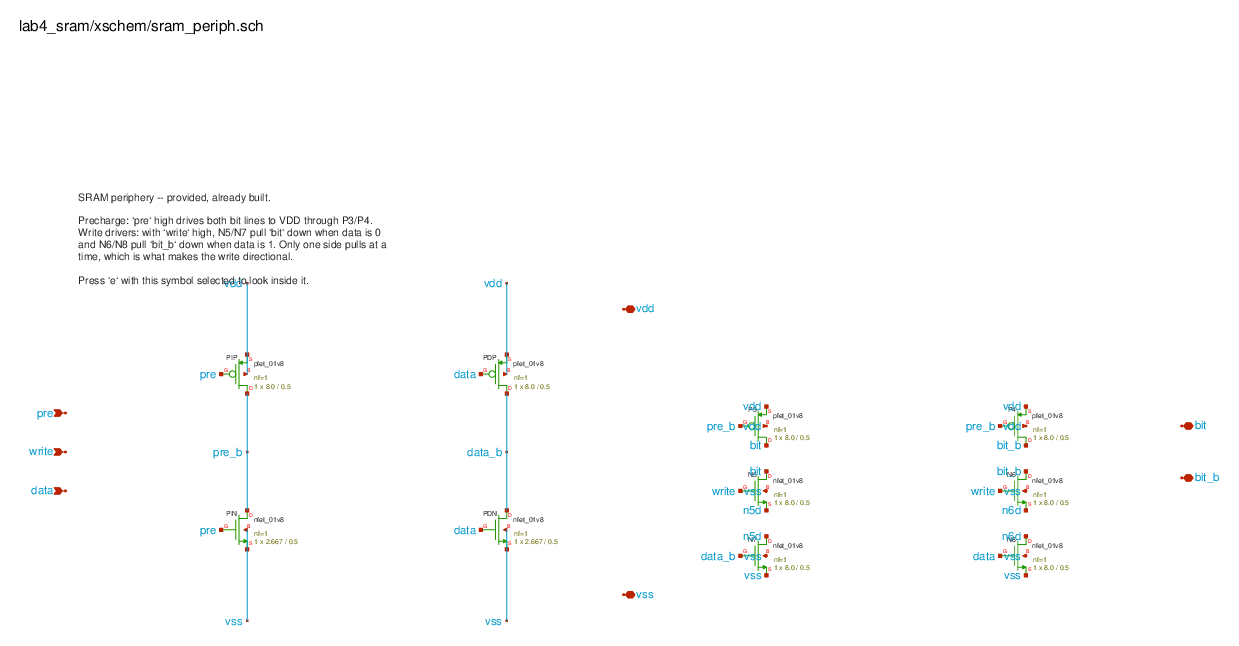
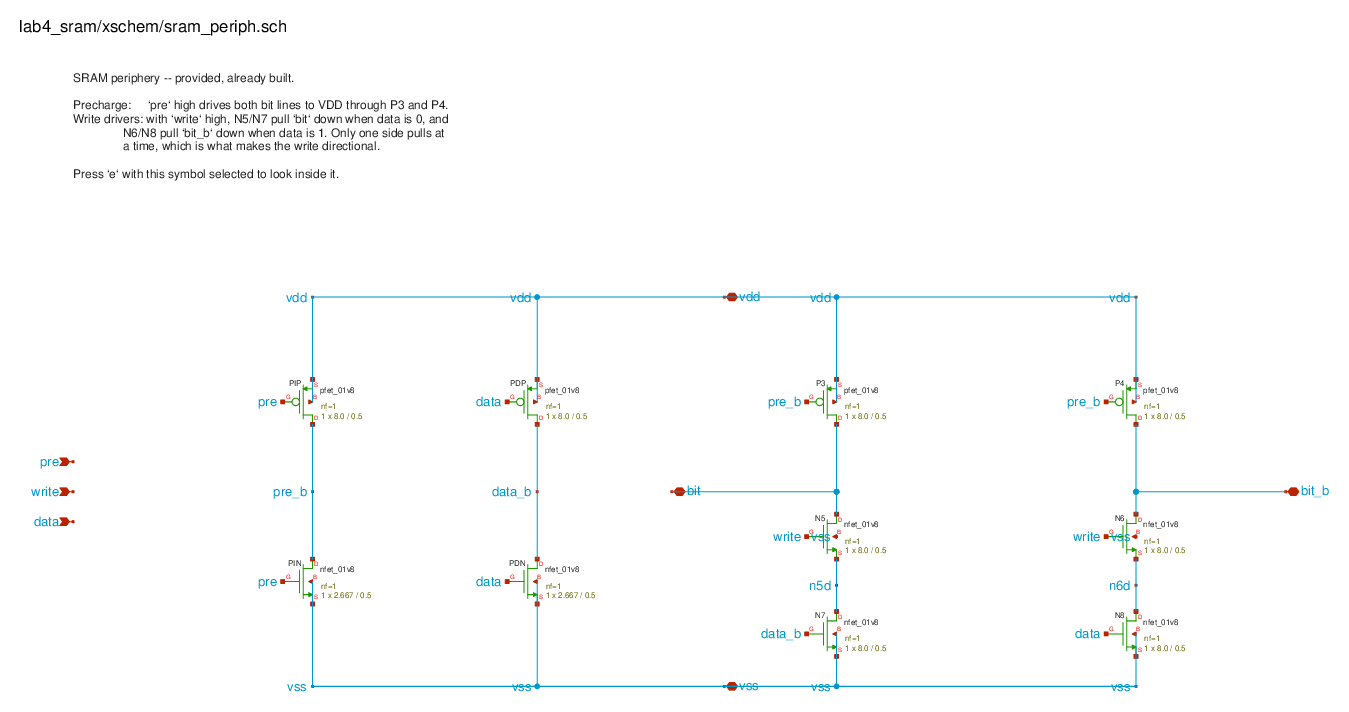
docs: redraw the Lab 4 periphery, drop the cluttered testbench figure
The periphery was wired purely by net name, so the figure showed ten
transistors with overlapping labels and no visible structure. Redrawn with
wires and rails: two inverters, then one column per bit line with the
precharge pull-up above and the two-high write driver below. The netlist and
every measured value are unchanged.

The testbench figure is dropped. Most of its area was the thirty-line .control
block, legible in the tool and illegible in a figure; the cell and periphery
figures carry what a reader needs.

diff --git a/docs/labs/lab4/index.md b/docs/labs/lab4/index.md
@@ -166,10 +166,6 @@ the bit lines when the word line is high. `a` and `a_b` are brought out as
 ports so the testbench can set the initial state and plot them; a cell in a
 real array would not expose them.*
 
-![The testbench](images/07-sram-testbench.png)
-*The testbench: your cell, the provided periphery, the four stimulus sources,
-and 1 pF on each bit line.*
-
 ![The periphery](images/06-sram-periphery.png)
 *Provided, already built. `pre` high drives both bit lines to $V_{DD}$ through
 `P3`/`P4`. With `write` high, one of the two series pairs pulls its bit line
